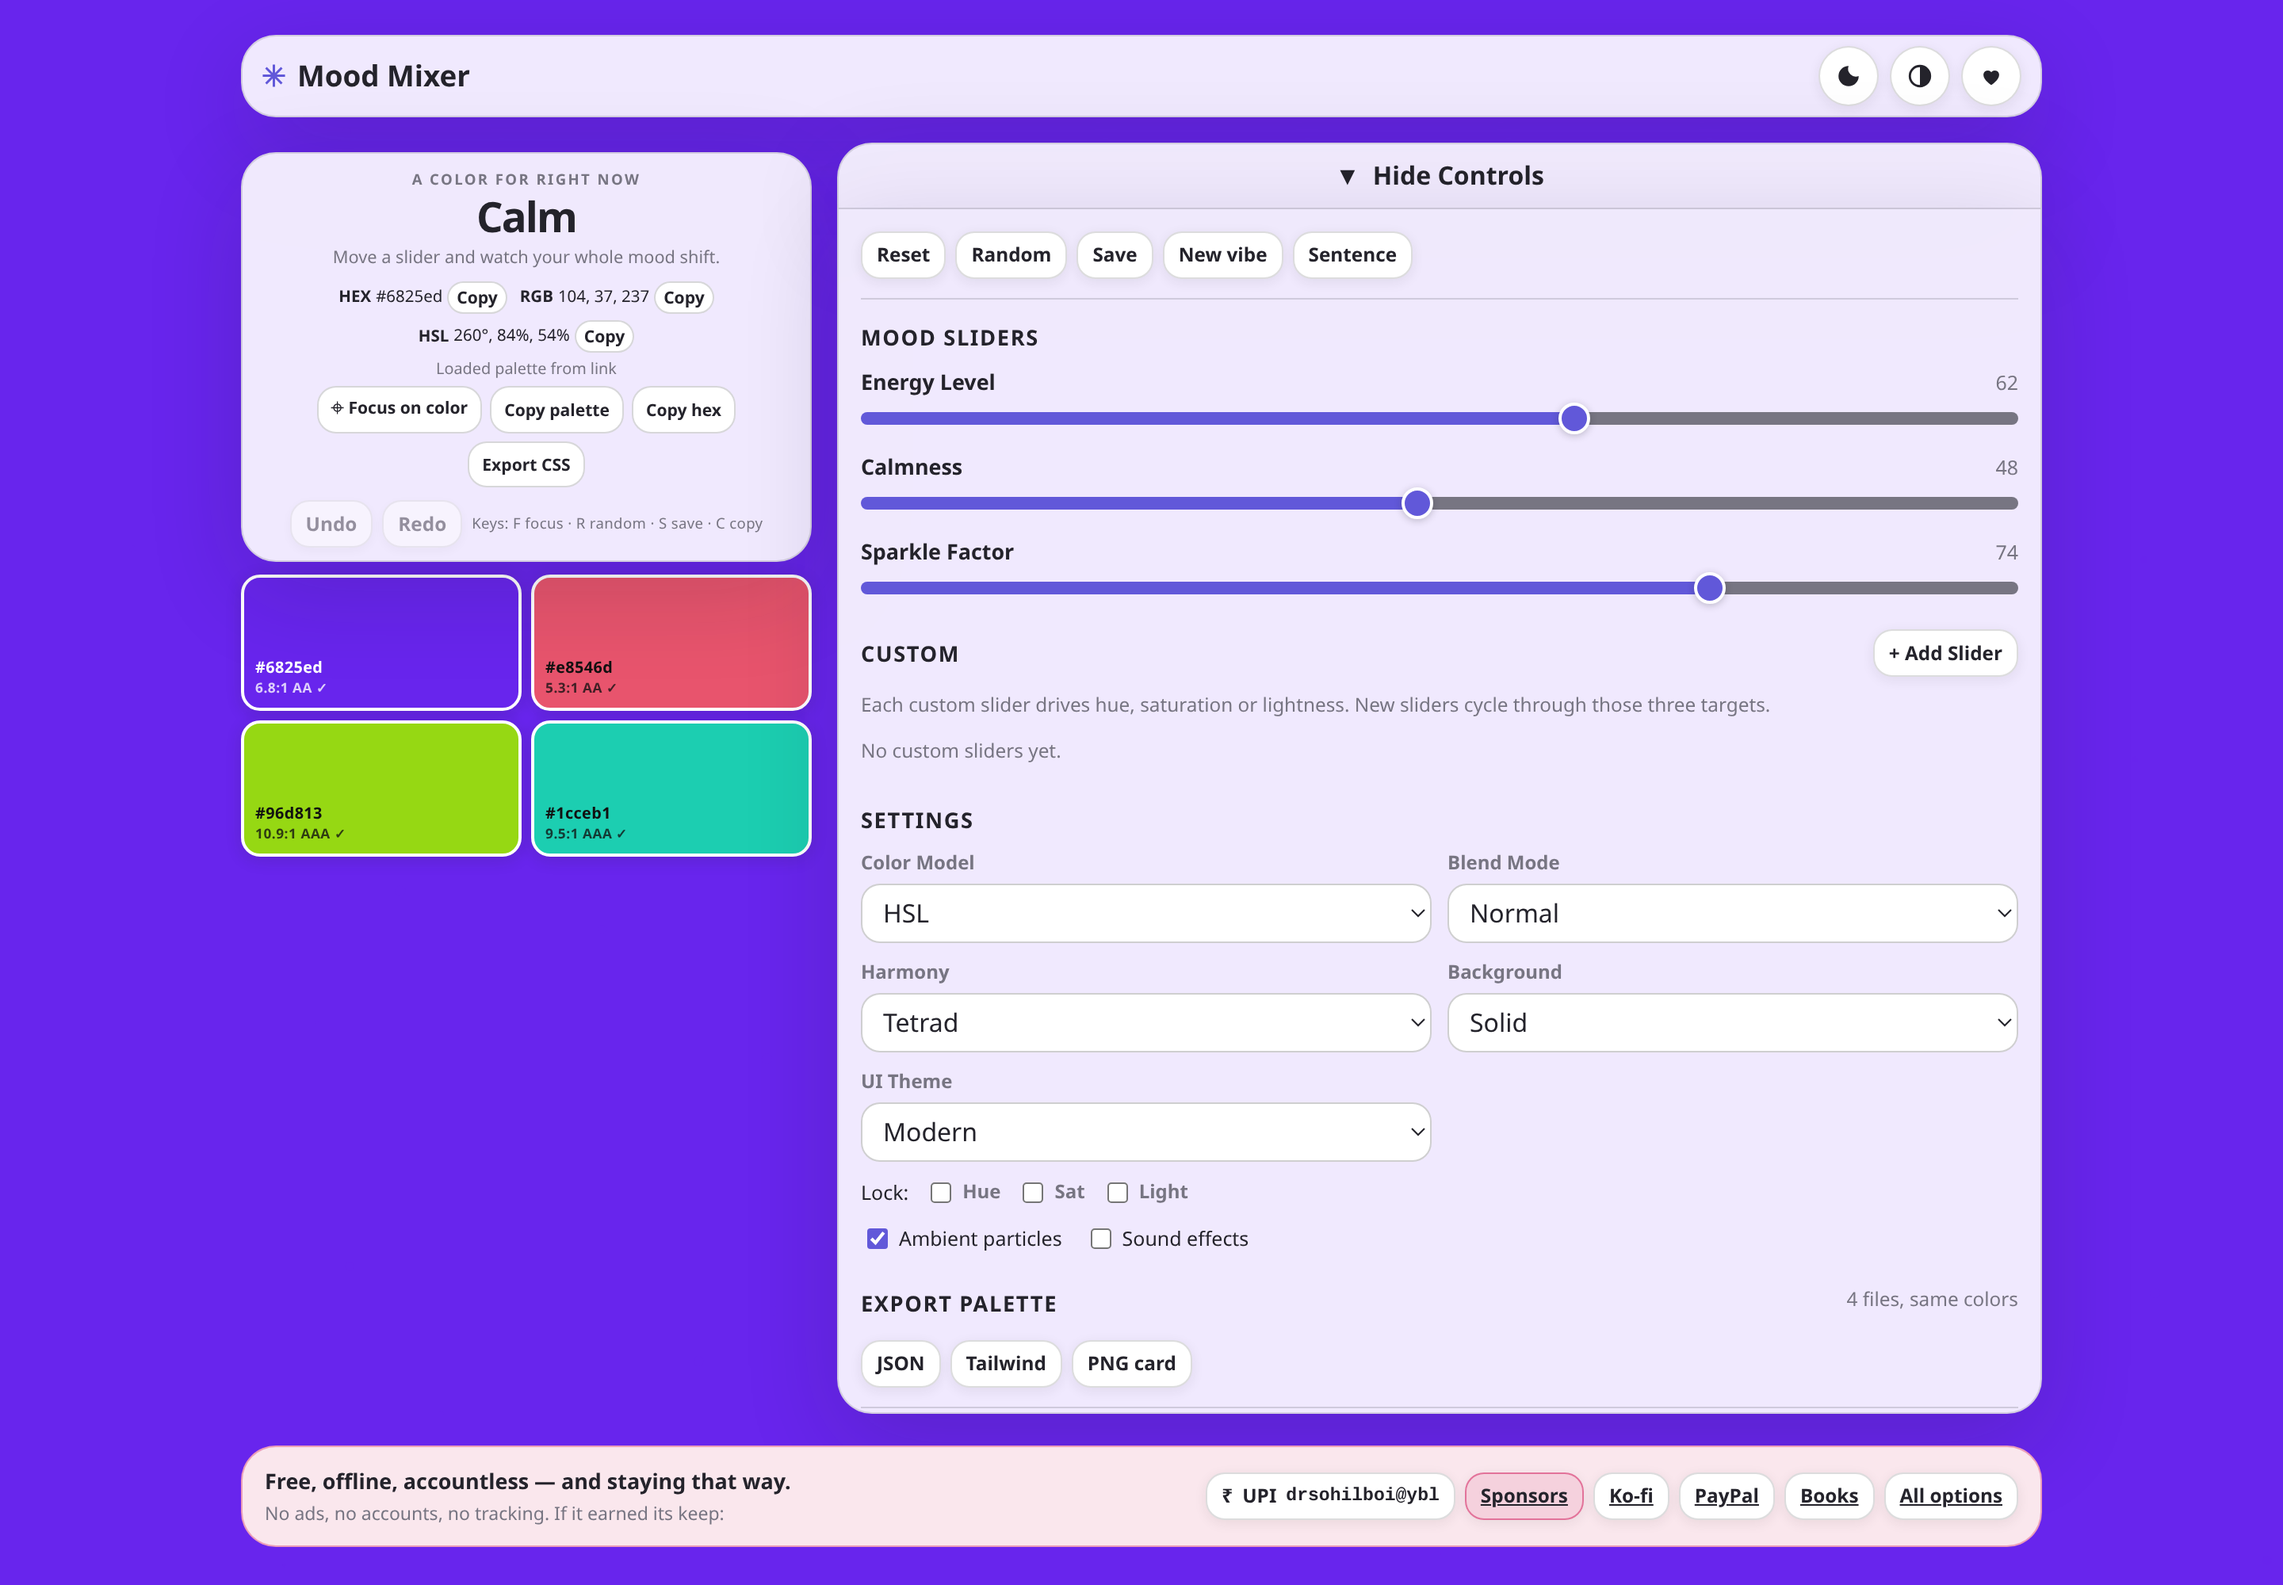
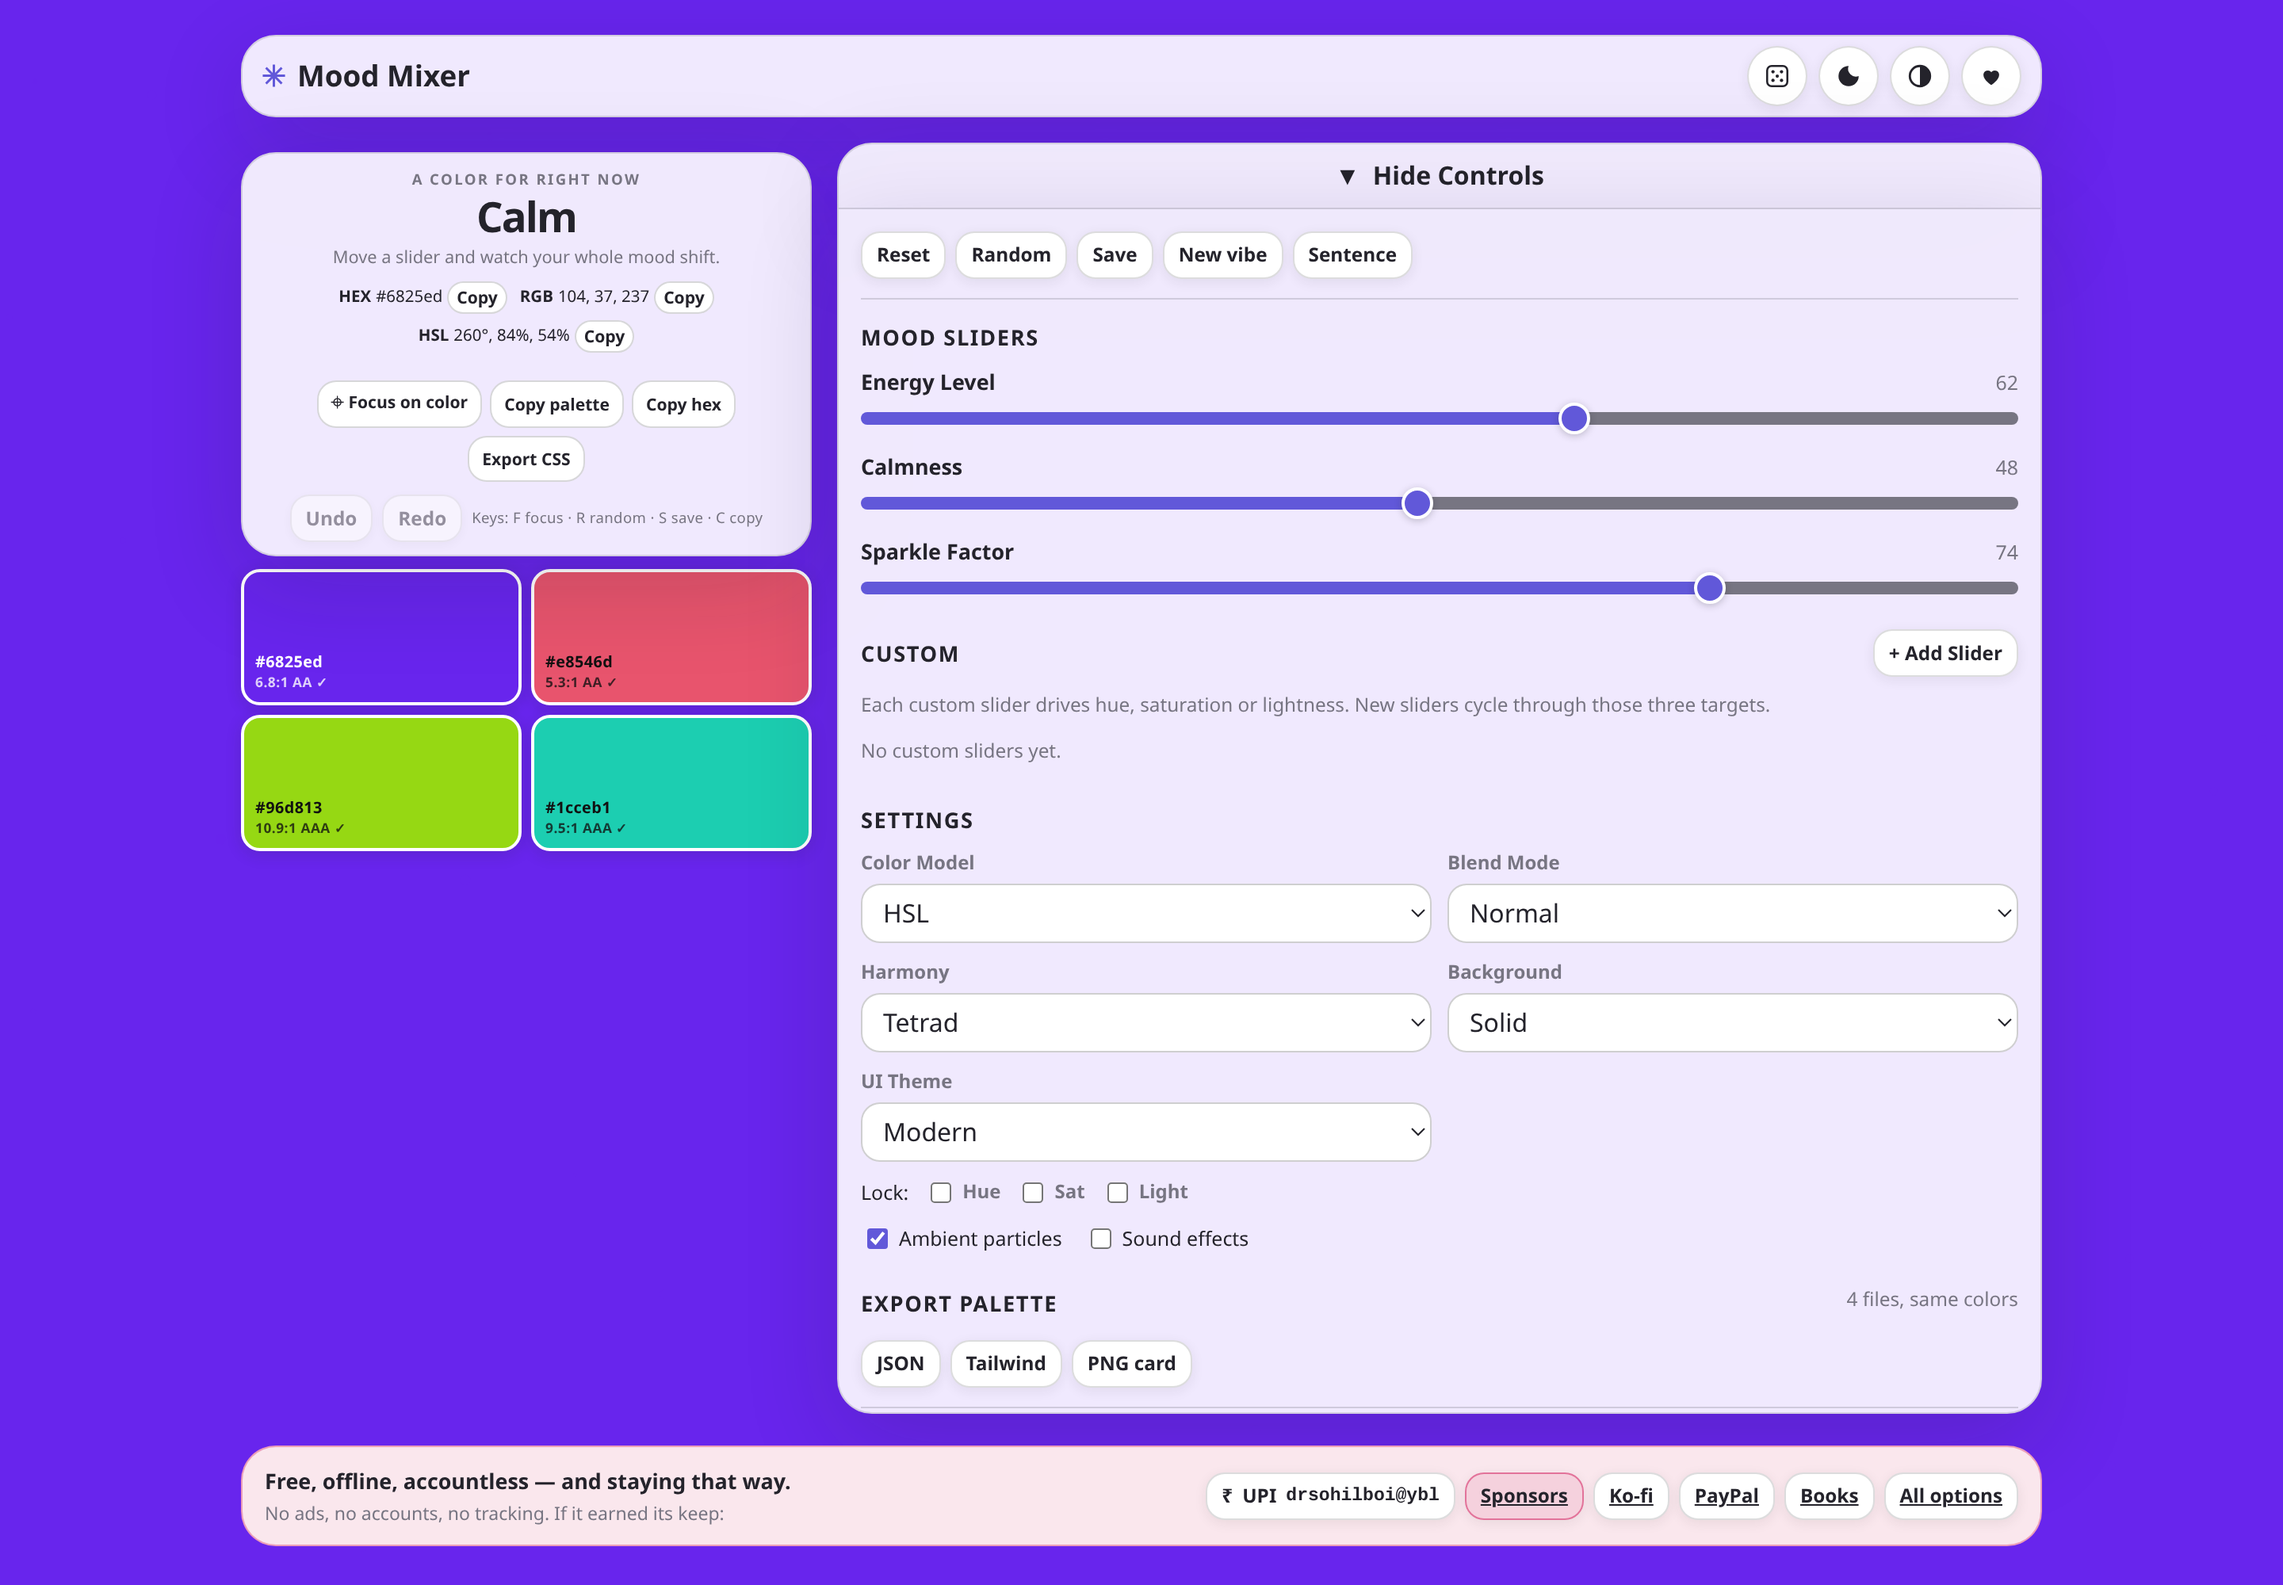
Focus mode colours the whole screen; randomise button in the header
- Focus mode now hides header, card, swatches, controls, support bar and footer at once
- Tap reveals the interface for 3.5s, Escape leaves, body scroll locked
- Header dice button reshuffles every slider; same routine as the panel button and R

diff --git a/script.js b/script.js
@@ -849,16 +849,22 @@
       button.textContent = active ? '\u2715 Exit focus view' : '\u26f6 Focus on color';
     }
     window.clearTimeout(hudHideTimer);
-    if (active) {
-      appContainer.classList.add('hud-visible');
-      hudHideTimer = window.setTimeout(() => appContainer.classList.remove('hud-visible'), 3500);
-    }
   }
 
   function toggleFocusMode() {
     const appContainer = $('.app-container');
     if (!appContainer) return;
     setFocusMode(!appContainer.classList.contains('focus-mode'));
+  }
+
+  function randomize() {
+    commitUndo();
+    [...DEFAULTS, ...state.custom].forEach((slider) => {
+      state.values[slider.id] = Math.floor(Math.random() * 101);
+    });
+    buildSliders();
+    updateMood();
+    tick(580);
   }
 
   /* ---------- events ---------- */
@@ -931,15 +937,8 @@
       tick(420);
     });
 
-    on('randomizeBtn', 'click', () => {
-      commitUndo();
-      [...DEFAULTS, ...state.custom].forEach((slider) => {
-        state.values[slider.id] = Math.floor(Math.random() * 101);
-      });
-      buildSliders();
-      updateMood();
-      tick(580);
-    });
+    on('randomizeBtn', 'click', randomize);
+    on('randomizeHeader', 'click', randomize);
 
     on('addSliderBtn', 'click', () => {
       commitUndo();
@@ -1129,7 +1128,7 @@
         toggleFocusMode();
         event.preventDefault();
       } else if (key === 'r') {
-        byId('randomizeBtn')?.click();
+        randomize();
         event.preventDefault();
       } else if (key === 's') {
         byId('saveMoodBtn')?.click();

diff --git a/mixer/index.html b/mixer/index.html
@@ -33,6 +33,16 @@
         <span class="app-title">Mood Mixer</span>
       </a>
       <div class="header-controls">
+        <button id="randomizeHeader" class="btn btn-icon" type="button" aria-label="Randomise the palette" title="Randomise (R)">
+          <svg viewBox="0 0 24 24" width="17" height="17" aria-hidden="true" focusable="false">
+            <rect x="3" y="3" width="18" height="18" rx="4" fill="none" stroke="currentColor" stroke-width="1.8" />
+            <circle cx="8.2" cy="8.2" r="1.5" fill="currentColor" />
+            <circle cx="15.8" cy="8.2" r="1.5" fill="currentColor" />
+            <circle cx="12" cy="12" r="1.5" fill="currentColor" />
+            <circle cx="8.2" cy="15.8" r="1.5" fill="currentColor" />
+            <circle cx="15.8" cy="15.8" r="1.5" fill="currentColor" />
+          </svg>
+        </button>
         <button id="themeToggle" class="btn btn-icon" type="button" aria-label="Toggle dark mode" aria-pressed="false" title="Toggle dark mode">
           <svg viewBox="0 0 24 24" width="17" height="17" aria-hidden="true" focusable="false">
             <path fill="currentColor" d="M12 3a9 9 0 1 0 9 9 7 7 0 0 1-9-9Z" />

diff --git a/style.css b/style.css
@@ -600,8 +600,24 @@ input[type="range"]::-moz-range-thumb {
 .app-container.focus-mode:not(.hud-visible) .app-header,
 .app-container.focus-mode:not(.hud-visible) .hero-vibe-section,
 .app-container.focus-mode:not(.hud-visible) .hero-swatches,
-.app-container.focus-mode:not(.hud-visible) .controls-wrapper {
+.app-container.focus-mode:not(.hud-visible) .controls-wrapper,
+.app-container.focus-mode:not(.hud-visible) .app-support,
+.app-container.focus-mode:not(.hud-visible) .app-footer {
   display: none;
+}
+
+/* Nothing but the color until the screen is touched. */
+.app-container.focus-mode {
+  cursor: pointer;
+}
+
+.app-container.focus-mode .hero-display {
+  padding: 0;
+}
+
+.app-container.focus-mode .hero-vibe-section,
+.app-container.focus-mode .hero-swatches {
+  box-shadow: none;
 }
 
 .app-container.focus-mode .hero-display {

diff --git a/README.md b/README.md
@@ -83,11 +83,12 @@ All captures are real renders of this repository, taken at 1440×900, 1440×1000
 - **Shareable links.** The full state lives in the URL hash, so a palette can be sent as a link.
 - **Saved moods and history.** Save, rename, load and delete moods; a 12-entry palette history with restore. Import and export a JSON backup.
 - **Undo and redo.** Ctrl/Cmd+Z, Ctrl/Cmd+Shift+Z, or the buttons.
-- **Focus mode.** Hides everything but the colour. Escape exits.
+- **Focus mode.** One tap on the screen and the whole display becomes the colour — header, card, swatches, controls, support bar and footer all go. Tap anywhere to bring the interface back for a few seconds, or press Escape to leave.
+- **Randomise from the header.** One button in the header, or `R`, reshuffles every slider; undo puts it back.
 - **Four UI themes, dark mode, high contrast.** Modern, minimalist, retro and neon, each with its own type and colour tokens.
 - **Sound and particles.** Optional WebAudio ticks, and an ambient particle layer that follows the sparkle slider.
 - **Works offline.** Installable PWA with a precached shell.
-- **Keyboard.** `F` focus, `R` random, `S` save, `C` copy hex, `Esc` leave focus mode.
+- **Keyboard.** `F` focus, `R` random, `S` save, `C` copy hex, `Esc` leave focus mode, `Ctrl/Cmd+Z` undo.
 
 ## Privacy
 
